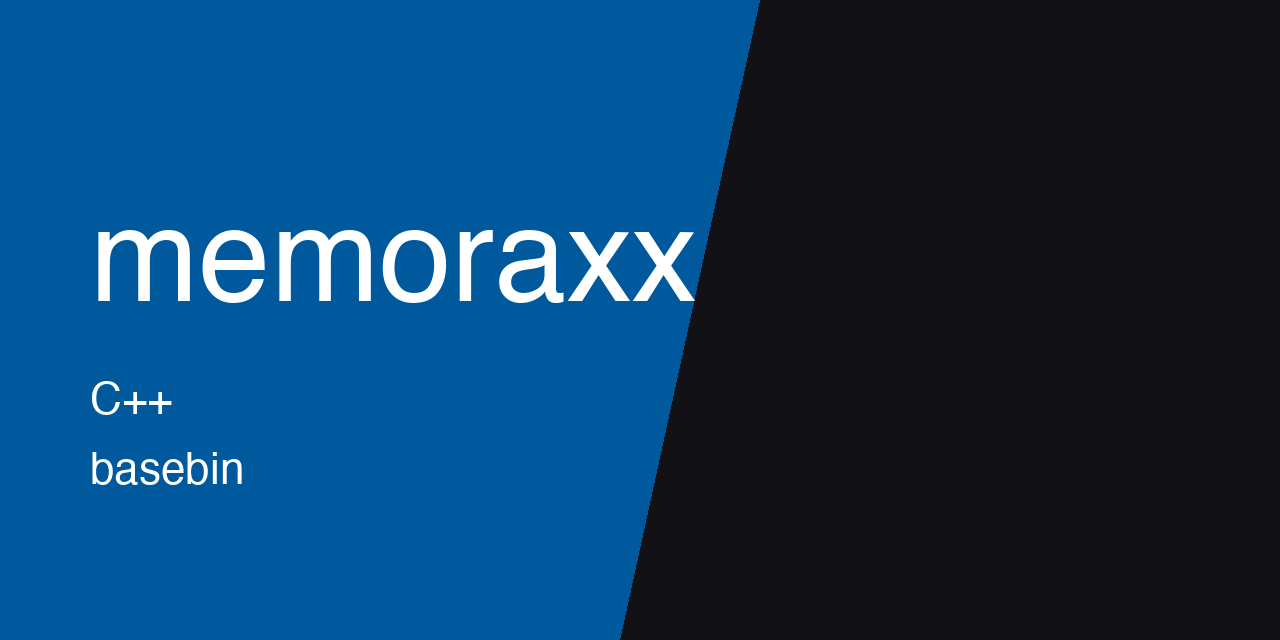
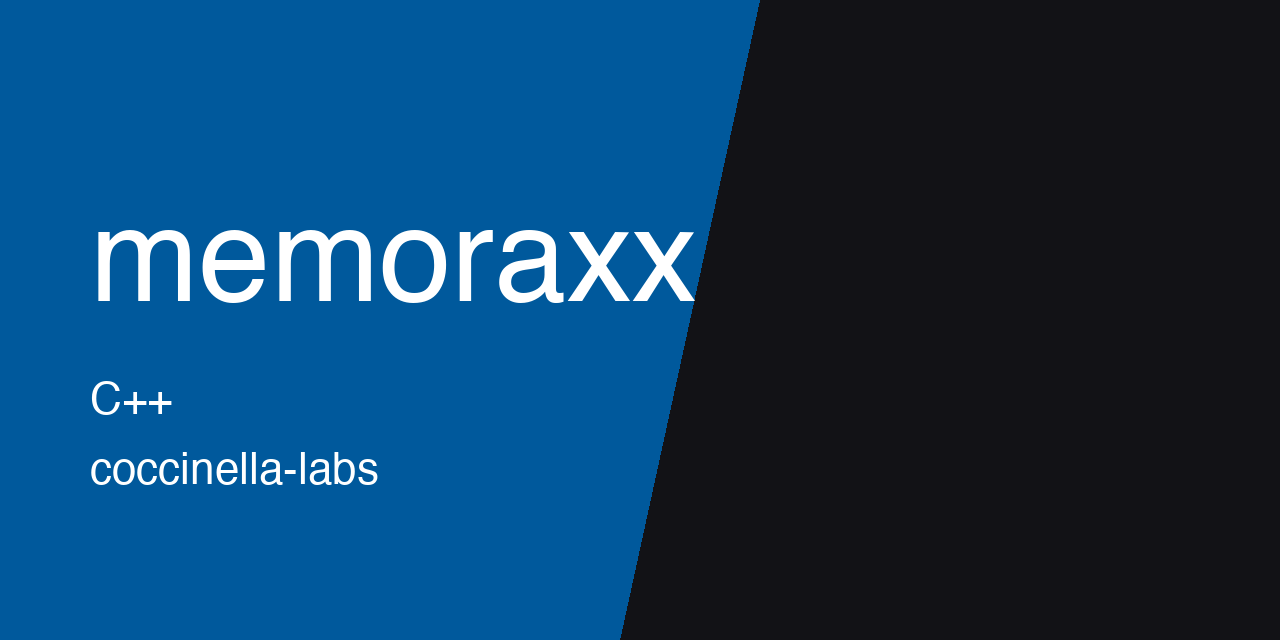
[docs] move thumbnail to coccinella-labs

Changed region(s): [[0.0625, 0.7188, 0.3125, 0.7812]]

diff --git a/README.md b/README.md
@@ -1,5 +1,5 @@
 <p align="center">
-  <img src="https://raw.githubusercontent.com/basebin/memoraxx/main/.github/assets/thumbnail.png" alt="memoraxx" width="100%">
+  <img src="https://raw.githubusercontent.com/Coccinella-Labs/memoraxx/main/.github/assets/thumbnail.png" alt="memoraxx" width="100%">
 </p>
 
 # memoraxx
